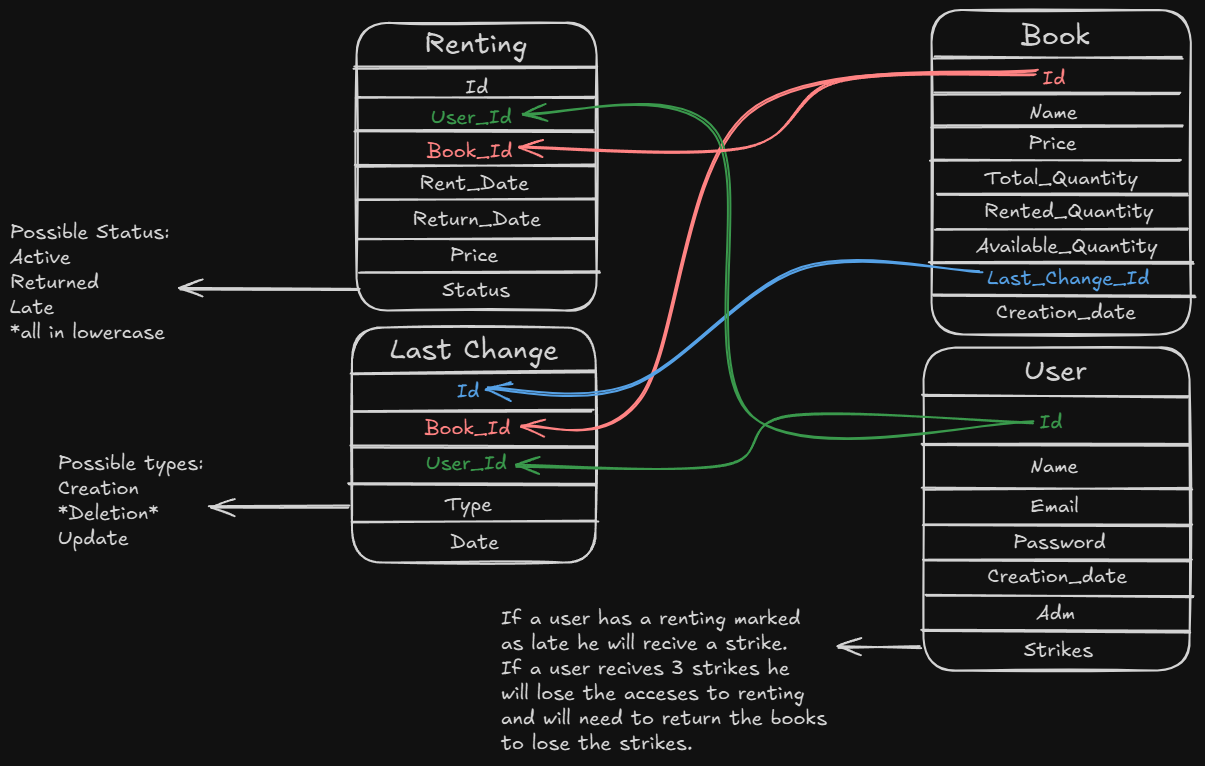
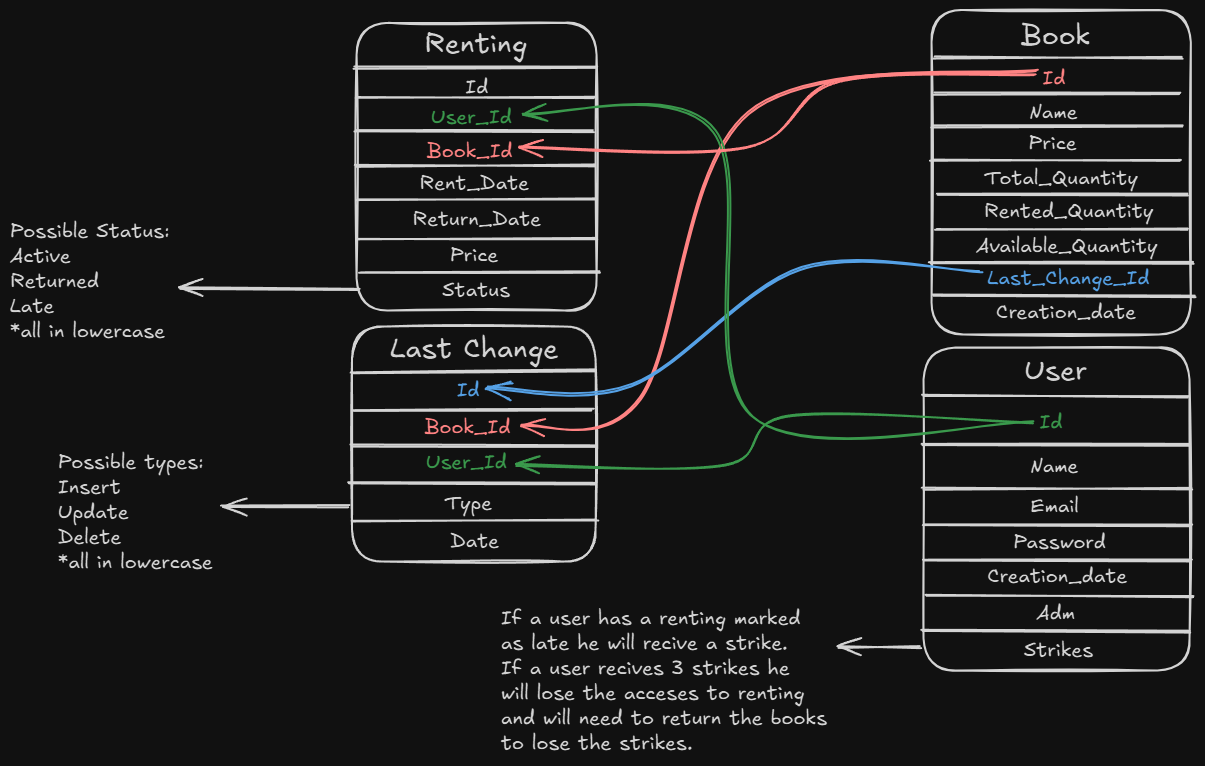
typing errors

diff --git a/src/BD.java b/src/BD.java
@@ -123,7 +123,7 @@ public class BD {
 
         } catch (SQLException e) {
             e.printStackTrace();
-            System.err.println("Erro ao inserir livro: " + e.getMessage());
+            System.err.println("Error inserting the book: " + e.getMessage());
         }
     }
     public void deleteBook(int id) {

diff --git a/readme.md b/readme.md
@@ -14,6 +14,6 @@ The database is designed to manage a library rent. containing 4 tables, **_users
 the id of the user how rented and the id of the book rented;
 ### How the last changes table works
 The **_last changes_** table is made to see how is the last user that edit a book.
-**It does not retain the previous state of a book**; instead, it only records the type of modification ("insert", "deletion" and "update"), who modified it and when the change happens.
+**It does not retain the previous state of a book**; instead, it only records the type of modification ("insert", "update" and "delete"), who modified it and when the change happens.
 
 ![alt text](./imgs/DBschema.png "DB Schema")
